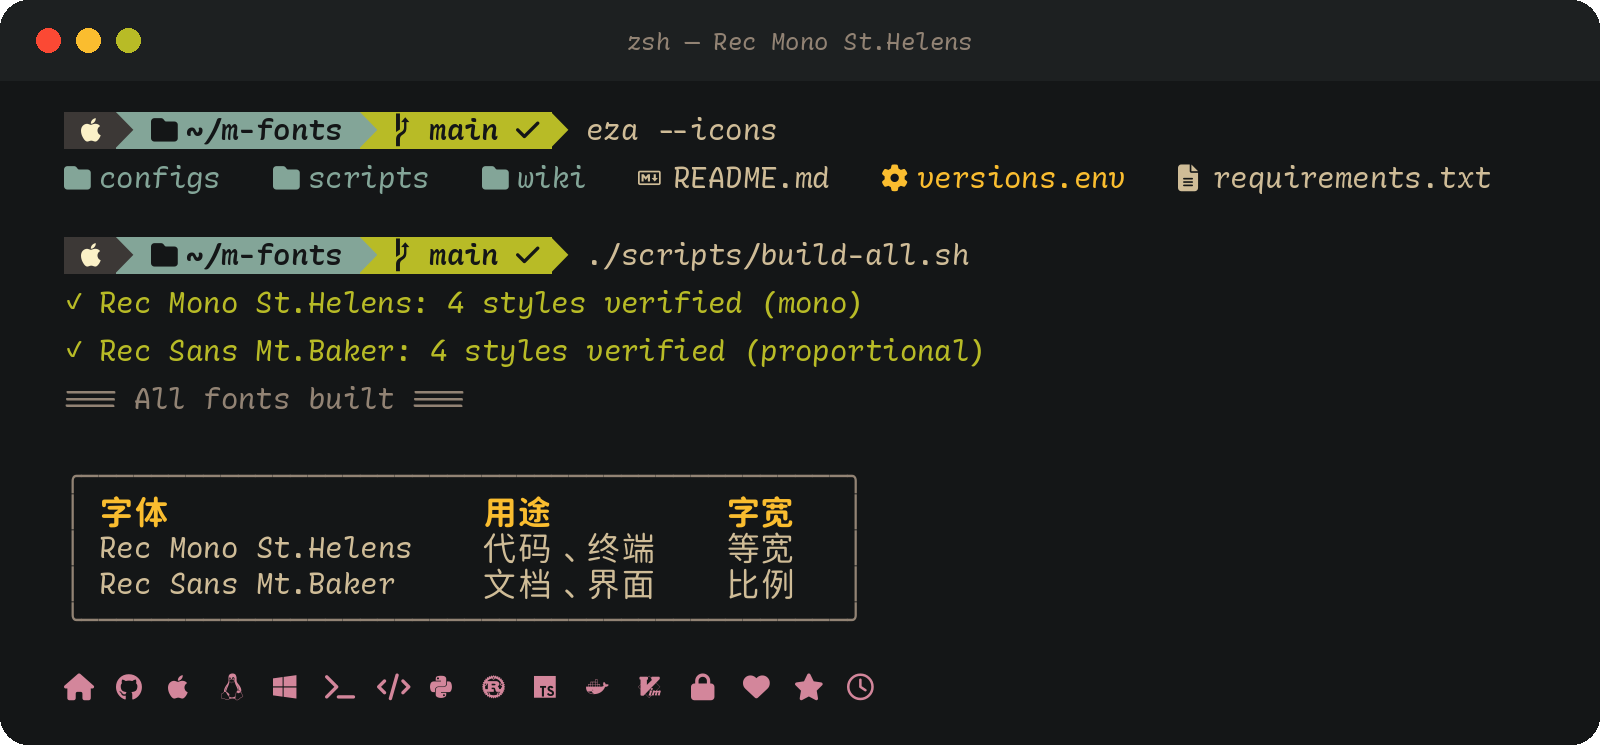
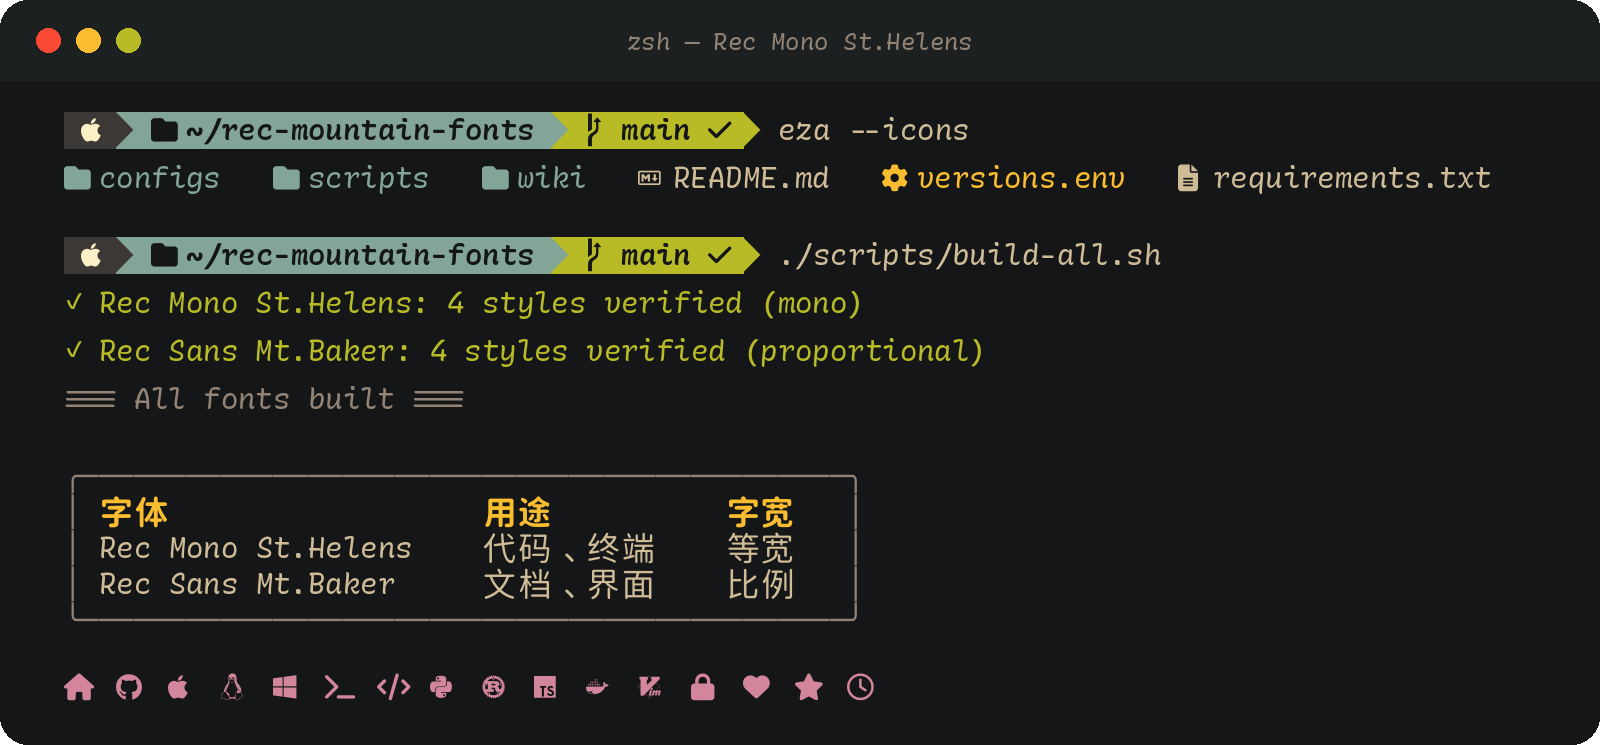
chore: rename to Rec Mountain Fonts (D0n9X1n/rec-mountain-fonts)
- Update repository links, badges, wiki image URLs, the release name, and
  the release zip (rec-mountain-fonts-<tag>.zip)
- CLAUDE.md: regenerate and review preview images with any font change
- Local gate fails if README.md omits a preview or links a missing one
- Re-render the terminal preview with the new folder name

Changed region(s): [[0.125, 0.3087, 0.7188, 0.3705], [0.125, 0.1235, 0.5938, 0.2161]]

diff --git a/scripts/render-previews.py b/scripts/render-previews.py
@@ -235,7 +235,7 @@ def render_terminal(fam, card):
     def prompt(y, command):
         segments = [
             (f" {ICONS['apple']} ", "bright", "selection"),
-            (f" {ICONS['folder']} ~/m-fonts ", "canvas", "blue"),
+            (f" {ICONS['folder']} ~/rec-mountain-fonts ", "canvas", "blue"),
             (f" {ICONS['branch']} main {ICONS['check']} ", "canvas", "green"),
         ]
         x = x0

diff --git a/README.md b/README.md
@@ -1,20 +1,20 @@
-# m-fonts
+# Rec Mountain Fonts
 
-[![CI](https://github.com/D0n9X1n/m-fonts/actions/workflows/ci.yml/badge.svg)](https://github.com/D0n9X1n/m-fonts/actions/workflows/ci.yml)
-[![Release](https://github.com/D0n9X1n/m-fonts/actions/workflows/release.yml/badge.svg)](https://github.com/D0n9X1n/m-fonts/actions/workflows/release.yml)
-[![Publish wiki](https://github.com/D0n9X1n/m-fonts/actions/workflows/publish-wiki.yml/badge.svg)](https://github.com/D0n9X1n/m-fonts/actions/workflows/publish-wiki.yml)
-[![Version](https://img.shields.io/github/v/release/D0n9X1n/m-fonts?sort=semver&label=version)](https://github.com/D0n9X1n/m-fonts/releases/latest)
-[![Release date](https://img.shields.io/github/release-date/D0n9X1n/m-fonts?label=released)](https://github.com/D0n9X1n/m-fonts/releases/latest)
-[![Downloads](https://img.shields.io/github/downloads/D0n9X1n/m-fonts/total?label=downloads)](https://github.com/D0n9X1n/m-fonts/releases)
-[![Stars](https://img.shields.io/github/stars/D0n9X1n/m-fonts?style=flat&label=stars)](https://github.com/D0n9X1n/m-fonts/stargazers)
-[![Issues](https://img.shields.io/github/issues/D0n9X1n/m-fonts?label=issues)](https://github.com/D0n9X1n/m-fonts/issues)
-[![Pull Requests](https://img.shields.io/github/issues-pr/D0n9X1n/m-fonts?label=prs)](https://github.com/D0n9X1n/m-fonts/pulls)
-[![Last Commit](https://img.shields.io/github/last-commit/D0n9X1n/m-fonts?label=last%20commit)](https://github.com/D0n9X1n/m-fonts/commits/main)
+[![CI](https://github.com/D0n9X1n/rec-mountain-fonts/actions/workflows/ci.yml/badge.svg)](https://github.com/D0n9X1n/rec-mountain-fonts/actions/workflows/ci.yml)
+[![Release](https://github.com/D0n9X1n/rec-mountain-fonts/actions/workflows/release.yml/badge.svg)](https://github.com/D0n9X1n/rec-mountain-fonts/actions/workflows/release.yml)
+[![Publish wiki](https://github.com/D0n9X1n/rec-mountain-fonts/actions/workflows/publish-wiki.yml/badge.svg)](https://github.com/D0n9X1n/rec-mountain-fonts/actions/workflows/publish-wiki.yml)
+[![Version](https://img.shields.io/github/v/release/D0n9X1n/rec-mountain-fonts?sort=semver&label=version)](https://github.com/D0n9X1n/rec-mountain-fonts/releases/latest)
+[![Release date](https://img.shields.io/github/release-date/D0n9X1n/rec-mountain-fonts?label=released)](https://github.com/D0n9X1n/rec-mountain-fonts/releases/latest)
+[![Downloads](https://img.shields.io/github/downloads/D0n9X1n/rec-mountain-fonts/total?label=downloads)](https://github.com/D0n9X1n/rec-mountain-fonts/releases)
+[![Stars](https://img.shields.io/github/stars/D0n9X1n/rec-mountain-fonts?style=flat&label=stars)](https://github.com/D0n9X1n/rec-mountain-fonts/stargazers)
+[![Issues](https://img.shields.io/github/issues/D0n9X1n/rec-mountain-fonts?label=issues)](https://github.com/D0n9X1n/rec-mountain-fonts/issues)
+[![Pull Requests](https://img.shields.io/github/issues-pr/D0n9X1n/rec-mountain-fonts?label=prs)](https://github.com/D0n9X1n/rec-mountain-fonts/pulls)
+[![Last Commit](https://img.shields.io/github/last-commit/D0n9X1n/rec-mountain-fonts?label=last%20commit)](https://github.com/D0n9X1n/rec-mountain-fonts/commits/main)
 
 [![Recursive](https://img.shields.io/badge/Recursive-1.085-blue)](https://github.com/arrowtype/recursive/releases/tag/v1.085)
 [![Resource Han Rounded](https://img.shields.io/badge/Resource_Han_Rounded-0.990-blue)](https://github.com/CyanoHao/Resource-Han-Rounded/releases/tag/v0.990)
 [![Nerd Fonts](https://img.shields.io/badge/Nerd_Fonts-3.5.1-blue)](https://github.com/ryanoasis/nerd-fonts/releases/tag/v3.5.1)
-[![Wiki](https://img.shields.io/badge/docs-wiki-informational)](https://github.com/D0n9X1n/m-fonts/wiki)
+[![Wiki](https://img.shields.io/badge/docs-wiki-informational)](https://github.com/D0n9X1n/rec-mountain-fonts/wiki)
 [![Font license: OFL-1.1](https://img.shields.io/badge/font_license-OFL_1.1-lightgreen.svg)](https://openfontlicense.org)
 [![Script license: MIT](https://img.shields.io/badge/script_license-MIT-blue.svg)](LICENSE)
 
@@ -80,7 +80,7 @@ Images are rendered from the release fonts by `scripts/render-previews.py`.
 
 ## Install
 
-Download the fonts from the [latest release](https://github.com/D0n9X1n/m-fonts/releases/latest) and install them. Per-OS steps are on the [Installation](https://github.com/D0n9X1n/m-fonts/wiki/Installation) page.
+Download the fonts from the [latest release](https://github.com/D0n9X1n/rec-mountain-fonts/releases/latest) and install them. Per-OS steps are on the [Installation](https://github.com/D0n9X1n/rec-mountain-fonts/wiki/Installation) page.
 
 ## Build
 
@@ -91,11 +91,11 @@ pip install -r requirements.txt
 ./scripts/build-all.sh          # → fonts/<Family>/*.ttf
 ```
 
-The build downloads the upstream releases pinned in `versions.env`. See [Building](https://github.com/D0n9X1n/m-fonts/wiki/Building).
+The build downloads the upstream releases pinned in `versions.env`. See [Building](https://github.com/D0n9X1n/rec-mountain-fonts/wiki/Building).
 
 ## Documentation
 
-The [wiki](https://github.com/D0n9X1n/m-fonts/wiki) ([简体中文](https://github.com/D0n9X1n/m-fonts/wiki/Home-zh-CN)) covers the fonts, configuration, the build pipeline, and the release process. Its source is the `wiki/` directory in this repository.
+The [wiki](https://github.com/D0n9X1n/rec-mountain-fonts/wiki) ([简体中文](https://github.com/D0n9X1n/rec-mountain-fonts/wiki/Home-zh-CN)) covers the fonts, configuration, the build pipeline, and the release process. Its source is the `wiki/` directory in this repository.
 
 ## Credits
 

diff --git a/wiki/Fonts-zh-CN.md b/wiki/Fonts-zh-CN.md
@@ -2,7 +2,7 @@
 
 [English](Fonts)
 
-m-fonts 提供两套共用同一设计的字体。St.Helens 用于写代码；Mt.Baker 是相同的字形，
+Rec Mountain Fonts 提供两套共用同一设计的字体。St.Helens 用于写代码；Mt.Baker 是相同的字形，
 但使用自然字宽，用于日常文本。
 
 ## 预览
@@ -10,43 +10,43 @@ m-fonts 提供两套共用同一设计的字体。St.Helens 用于写代码；Mt
 ### 样式
 
 <picture>
-  <source media="(prefers-color-scheme: dark)" srcset="https://raw.githubusercontent.com/D0n9X1n/m-fonts/main/docs/previews/styles-dark.png">
-  <img alt="Regular, Italic, Bold, and Bold Italic of both families" src="https://raw.githubusercontent.com/D0n9X1n/m-fonts/main/docs/previews/styles-light.png" width="800">
+  <source media="(prefers-color-scheme: dark)" srcset="https://raw.githubusercontent.com/D0n9X1n/rec-mountain-fonts/main/docs/previews/styles-dark.png">
+  <img alt="Regular, Italic, Bold, and Bold Italic of both families" src="https://raw.githubusercontent.com/D0n9X1n/rec-mountain-fonts/main/docs/previews/styles-light.png" width="800">
 </picture>
 
 ### 代码
 
 <picture>
-  <source media="(prefers-color-scheme: dark)" srcset="https://raw.githubusercontent.com/D0n9X1n/m-fonts/main/docs/previews/code-dark.png">
-  <img alt="TypeScript in Rec Mono St.Helens with code ligatures and italic keywords" src="https://raw.githubusercontent.com/D0n9X1n/m-fonts/main/docs/previews/code-light.png" width="800">
+  <source media="(prefers-color-scheme: dark)" srcset="https://raw.githubusercontent.com/D0n9X1n/rec-mountain-fonts/main/docs/previews/code-dark.png">
+  <img alt="TypeScript in Rec Mono St.Helens with code ligatures and italic keywords" src="https://raw.githubusercontent.com/D0n9X1n/rec-mountain-fonts/main/docs/previews/code-light.png" width="800">
 </picture>
 
 ### 终端
 
 <picture>
-  <source media="(prefers-color-scheme: dark)" srcset="https://raw.githubusercontent.com/D0n9X1n/m-fonts/main/docs/previews/terminal-dark.png">
-  <img alt="A shell prompt with Powerline segments, Nerd Font icons, and a CJK table aligned on the cell grid" src="https://raw.githubusercontent.com/D0n9X1n/m-fonts/main/docs/previews/terminal-light.png" width="800">
+  <source media="(prefers-color-scheme: dark)" srcset="https://raw.githubusercontent.com/D0n9X1n/rec-mountain-fonts/main/docs/previews/terminal-dark.png">
+  <img alt="A shell prompt with Powerline segments, Nerd Font icons, and a CJK table aligned on the cell grid" src="https://raw.githubusercontent.com/D0n9X1n/rec-mountain-fonts/main/docs/previews/terminal-light.png" width="800">
 </picture>
 
 ### 连字
 
 <picture>
-  <source media="(prefers-color-scheme: dark)" srcset="https://raw.githubusercontent.com/D0n9X1n/m-fonts/main/docs/previews/ligatures-dark.png">
-  <img alt="Thirty code ligatures in Rec Mono St.Helens" src="https://raw.githubusercontent.com/D0n9X1n/m-fonts/main/docs/previews/ligatures-light.png" width="800">
+  <source media="(prefers-color-scheme: dark)" srcset="https://raw.githubusercontent.com/D0n9X1n/rec-mountain-fonts/main/docs/previews/ligatures-dark.png">
+  <img alt="Thirty code ligatures in Rec Mono St.Helens" src="https://raw.githubusercontent.com/D0n9X1n/rec-mountain-fonts/main/docs/previews/ligatures-light.png" width="800">
 </picture>
 
 ### 文本
 
 <picture>
-  <source media="(prefers-color-scheme: dark)" srcset="https://raw.githubusercontent.com/D0n9X1n/m-fonts/main/docs/previews/text-dark.png">
-  <img alt="English, Chinese, and Japanese paragraphs in Rec Sans Mt.Baker" src="https://raw.githubusercontent.com/D0n9X1n/m-fonts/main/docs/previews/text-light.png" width="800">
+  <source media="(prefers-color-scheme: dark)" srcset="https://raw.githubusercontent.com/D0n9X1n/rec-mountain-fonts/main/docs/previews/text-dark.png">
+  <img alt="English, Chinese, and Japanese paragraphs in Rec Sans Mt.Baker" src="https://raw.githubusercontent.com/D0n9X1n/rec-mountain-fonts/main/docs/previews/text-light.png" width="800">
 </picture>
 
 ### 字形覆盖
 
 <picture>
-  <source media="(prefers-color-scheme: dark)" srcset="https://raw.githubusercontent.com/D0n9X1n/m-fonts/main/docs/previews/glyphs-dark.png">
-  <img alt="Glyph coverage: Latin, Vietnamese, mathematical Greek, CJK, kana, box drawing, Powerline, and Nerd Font icons" src="https://raw.githubusercontent.com/D0n9X1n/m-fonts/main/docs/previews/glyphs-light.png" width="800">
+  <source media="(prefers-color-scheme: dark)" srcset="https://raw.githubusercontent.com/D0n9X1n/rec-mountain-fonts/main/docs/previews/glyphs-dark.png">
+  <img alt="Glyph coverage: Latin, Vietnamese, mathematical Greek, CJK, kana, box drawing, Powerline, and Nerd Font icons" src="https://raw.githubusercontent.com/D0n9X1n/rec-mountain-fonts/main/docs/previews/glyphs-light.png" width="800">
 </picture>
 
 ## 字体家族

diff --git a/wiki/Fonts.md b/wiki/Fonts.md
@@ -2,7 +2,7 @@
 
 [简体中文](Fonts-zh-CN)
 
-m-fonts ships two families that share one design. St.Helens is for code; Mt.Baker
+Rec Mountain Fonts ships two families that share one design. St.Helens is for code; Mt.Baker
 is the same letterforms with natural widths for everyday text.
 
 ## Preview
@@ -10,43 +10,43 @@ is the same letterforms with natural widths for everyday text.
 ### Styles
 
 <picture>
-  <source media="(prefers-color-scheme: dark)" srcset="https://raw.githubusercontent.com/D0n9X1n/m-fonts/main/docs/previews/styles-dark.png">
-  <img alt="Regular, Italic, Bold, and Bold Italic of both families" src="https://raw.githubusercontent.com/D0n9X1n/m-fonts/main/docs/previews/styles-light.png" width="800">
+  <source media="(prefers-color-scheme: dark)" srcset="https://raw.githubusercontent.com/D0n9X1n/rec-mountain-fonts/main/docs/previews/styles-dark.png">
+  <img alt="Regular, Italic, Bold, and Bold Italic of both families" src="https://raw.githubusercontent.com/D0n9X1n/rec-mountain-fonts/main/docs/previews/styles-light.png" width="800">
 </picture>
 
 ### Code
 
 <picture>
-  <source media="(prefers-color-scheme: dark)" srcset="https://raw.githubusercontent.com/D0n9X1n/m-fonts/main/docs/previews/code-dark.png">
-  <img alt="TypeScript in Rec Mono St.Helens with code ligatures and italic keywords" src="https://raw.githubusercontent.com/D0n9X1n/m-fonts/main/docs/previews/code-light.png" width="800">
+  <source media="(prefers-color-scheme: dark)" srcset="https://raw.githubusercontent.com/D0n9X1n/rec-mountain-fonts/main/docs/previews/code-dark.png">
+  <img alt="TypeScript in Rec Mono St.Helens with code ligatures and italic keywords" src="https://raw.githubusercontent.com/D0n9X1n/rec-mountain-fonts/main/docs/previews/code-light.png" width="800">
 </picture>
 
 ### Terminal
 
 <picture>
-  <source media="(prefers-color-scheme: dark)" srcset="https://raw.githubusercontent.com/D0n9X1n/m-fonts/main/docs/previews/terminal-dark.png">
-  <img alt="A shell prompt with Powerline segments, Nerd Font icons, and a CJK table aligned on the cell grid" src="https://raw.githubusercontent.com/D0n9X1n/m-fonts/main/docs/previews/terminal-light.png" width="800">
+  <source media="(prefers-color-scheme: dark)" srcset="https://raw.githubusercontent.com/D0n9X1n/rec-mountain-fonts/main/docs/previews/terminal-dark.png">
+  <img alt="A shell prompt with Powerline segments, Nerd Font icons, and a CJK table aligned on the cell grid" src="https://raw.githubusercontent.com/D0n9X1n/rec-mountain-fonts/main/docs/previews/terminal-light.png" width="800">
 </picture>
 
 ### Ligatures
 
 <picture>
-  <source media="(prefers-color-scheme: dark)" srcset="https://raw.githubusercontent.com/D0n9X1n/m-fonts/main/docs/previews/ligatures-dark.png">
-  <img alt="Thirty code ligatures in Rec Mono St.Helens" src="https://raw.githubusercontent.com/D0n9X1n/m-fonts/main/docs/previews/ligatures-light.png" width="800">
+  <source media="(prefers-color-scheme: dark)" srcset="https://raw.githubusercontent.com/D0n9X1n/rec-mountain-fonts/main/docs/previews/ligatures-dark.png">
+  <img alt="Thirty code ligatures in Rec Mono St.Helens" src="https://raw.githubusercontent.com/D0n9X1n/rec-mountain-fonts/main/docs/previews/ligatures-light.png" width="800">
 </picture>
 
 ### Text
 
 <picture>
-  <source media="(prefers-color-scheme: dark)" srcset="https://raw.githubusercontent.com/D0n9X1n/m-fonts/main/docs/previews/text-dark.png">
-  <img alt="English, Chinese, and Japanese paragraphs in Rec Sans Mt.Baker" src="https://raw.githubusercontent.com/D0n9X1n/m-fonts/main/docs/previews/text-light.png" width="800">
+  <source media="(prefers-color-scheme: dark)" srcset="https://raw.githubusercontent.com/D0n9X1n/rec-mountain-fonts/main/docs/previews/text-dark.png">
+  <img alt="English, Chinese, and Japanese paragraphs in Rec Sans Mt.Baker" src="https://raw.githubusercontent.com/D0n9X1n/rec-mountain-fonts/main/docs/previews/text-light.png" width="800">
 </picture>
 
 ### Glyph coverage
 
 <picture>
-  <source media="(prefers-color-scheme: dark)" srcset="https://raw.githubusercontent.com/D0n9X1n/m-fonts/main/docs/previews/glyphs-dark.png">
-  <img alt="Glyph coverage: Latin, Vietnamese, mathematical Greek, CJK, kana, box drawing, Powerline, and Nerd Font icons" src="https://raw.githubusercontent.com/D0n9X1n/m-fonts/main/docs/previews/glyphs-light.png" width="800">
+  <source media="(prefers-color-scheme: dark)" srcset="https://raw.githubusercontent.com/D0n9X1n/rec-mountain-fonts/main/docs/previews/glyphs-dark.png">
+  <img alt="Glyph coverage: Latin, Vietnamese, mathematical Greek, CJK, kana, box drawing, Powerline, and Nerd Font icons" src="https://raw.githubusercontent.com/D0n9X1n/rec-mountain-fonts/main/docs/previews/glyphs-light.png" width="800">
 </picture>
 
 ## Families

diff --git a/CLAUDE.md b/CLAUDE.md
@@ -1,6 +1,6 @@
-# CLAUDE.md — m-fonts
+# CLAUDE.md — Rec Mountain Fonts
 
-m-fonts builds two font families from Recursive, Resource Han Rounded, and Nerd
+Rec Mountain Fonts builds two font families from Recursive, Resource Han Rounded, and Nerd
 Fonts: **Rec Mono St.Helens** (monospace, for code) and **Rec Sans Mt.Baker**
 (proportional, for text). Both share one design.
 
@@ -26,6 +26,11 @@ against the current scripts and configs before writing them.
   the Nerd Fonts patcher into the repository; `sources/` is fetched and ignored.
 - Python dependencies are pinned exactly in `requirements.txt`.
 - Workflow actions are pinned to commit SHAs with a trailing `# vX.Y.Z` comment.
+- The preview images in `README.md` and `wiki/Fonts*.md` come from
+  `docs/previews/`. After any change to fonts, configs, or
+  `scripts/render-previews.py`, rebuild, run `python3 scripts/render-previews.py`,
+  look at every changed image, and commit them in the same change. Every
+  preview must appear in `README.md`; the local gate checks this.
 
 ## Commands
 
@@ -35,6 +40,4 @@ against the current scripts and configs before writing them.
 ./scripts/check-updates.sh         # compare versions.env with upstream releases
 ```
 
-Run `./scripts/local-gate.sh --build` before pushing a change to font output, then
-regenerate the images with `python3 scripts/render-previews.py` and commit
-`docs/previews/`.
+Run `./scripts/local-gate.sh --build` before pushing a change to font output.

diff --git a/wiki/Installation-zh-CN.md b/wiki/Installation-zh-CN.md
@@ -2,8 +2,8 @@
 
 [English](Installation)
 
-从[最新发布](https://github.com/D0n9X1n/m-fonts/releases/latest)下载字体。每个发布包含
-八个 `.ttf` 文件、含全部八个文件的 `m-fonts-<tag>.zip`，以及 `SHA256SUMS.txt`。
+从[最新发布](https://github.com/D0n9X1n/rec-mountain-fonts/releases/latest)下载字体。每个发布包含
+八个 `.ttf` 文件、含全部八个文件的 `rec-mountain-fonts-<tag>.zip`，以及 `SHA256SUMS.txt`。
 
 ## 安装字体
 
@@ -30,7 +30,7 @@ shasum -a 256 --check SHA256SUMS.txt   # Linux：sha256sum --check SHA256SUMS.tx
 
 ## 从旧版本升级
 
-m-fonts v2.0.0 之前的版本发布在 `MOSconfig/recursive-code-config`（该仓库已删除），其中的
+v2.0.0 之前的版本发布在 `MOSconfig/recursive-code-config`（该仓库已删除），其中的
 **Rec Mono Baker** 是等宽的直线风格字体，现由 Mt.Baker 取代。安装 v2.0.0 之前：
 
 1. 从字体文件夹删除 `RecMonoBaker-*.ttf`。

diff --git a/wiki/Installation.md b/wiki/Installation.md
@@ -3,8 +3,8 @@
 [简体中文](Installation-zh-CN)
 
 Download the fonts from the
-[latest release](https://github.com/D0n9X1n/m-fonts/releases/latest). Each
-release has the eight `.ttf` files, `m-fonts-<tag>.zip` with all eight, and
+[latest release](https://github.com/D0n9X1n/rec-mountain-fonts/releases/latest). Each
+release has the eight `.ttf` files, `rec-mountain-fonts-<tag>.zip` with all eight, and
 `SHA256SUMS.txt`.
 
 ## Install
@@ -32,7 +32,7 @@ Select the family by name. Apps that cache their font list need a restart.
 
 ## Upgrade from older releases
 
-Releases before m-fonts v2.0.0 came from `MOSconfig/recursive-code-config`, which
+Releases before v2.0.0 came from `MOSconfig/recursive-code-config`, which
 has since been deleted, and shipped **Rec Mono Baker**, a monospace linear
 family. Mt.Baker replaces it.
 Before installing v2.0.0:

diff --git a/wiki/Home-zh-CN.md b/wiki/Home-zh-CN.md
@@ -1,8 +1,8 @@
-# m-fonts 百科
+# Rec Mountain Fonts 百科
 
 [English](Home)
 
-m-fonts 基于 [Recursive](https://recursive.design) 构建两套字体，
+Rec Mountain Fonts 基于 [Recursive](https://recursive.design) 构建两套字体，
 并合入资源圆体（Resource Han Rounded）的中日文字形和完整的 Nerd Fonts 图标集。
 **先读[安装](Installation-zh-CN)**，把字体装到你的电脑上。
 

diff --git a/wiki/Home.md b/wiki/Home.md
@@ -1,8 +1,8 @@
-# m-fonts Wiki
+# Rec Mountain Fonts Wiki
 
 [简体中文](Home-zh-CN)
 
-m-fonts builds two font families from [Recursive](https://recursive.design),
+Rec Mountain Fonts builds two font families from [Recursive](https://recursive.design),
 with CJK glyphs from Resource Han Rounded and the full Nerd Fonts icon set.
 **Start with [Installation](Installation)** to get the fonts onto your machine.
 

diff --git a/wiki/Release-Process-zh-CN.md b/wiki/Release-Process-zh-CN.md
@@ -39,7 +39,7 @@ flowchart TD
 |---|---|
 | `RecMonoSt.Helens-*.ttf` | St.Helens 四种样式 |
 | `RecSansMt.Baker-*.ttf` | Mt.Baker 四种样式 |
-| `m-fonts-<tag>.zip` | 全部八个字体 |
+| `rec-mountain-fonts-<tag>.zip` | 全部八个字体 |
 | `SHA256SUMS.txt` | 每个字体和压缩包的 SHA-256 |
 
 `scripts/release-notes.sh` 生成发布说明：字体列表、`versions.env` 中的上游版本、

diff --git a/wiki/Release-Process.md b/wiki/Release-Process.md
@@ -42,7 +42,7 @@ validation.
 |---|---|
 | `RecMonoSt.Helens-*.ttf` | Four St.Helens styles |
 | `RecSansMt.Baker-*.ttf` | Four Mt.Baker styles |
-| `m-fonts-<tag>.zip` | All eight fonts |
+| `rec-mountain-fonts-<tag>.zip` | All eight fonts |
 | `SHA256SUMS.txt` | SHA-256 of every font and the zip |
 
 `scripts/release-notes.sh` writes the notes: the families, the upstream
